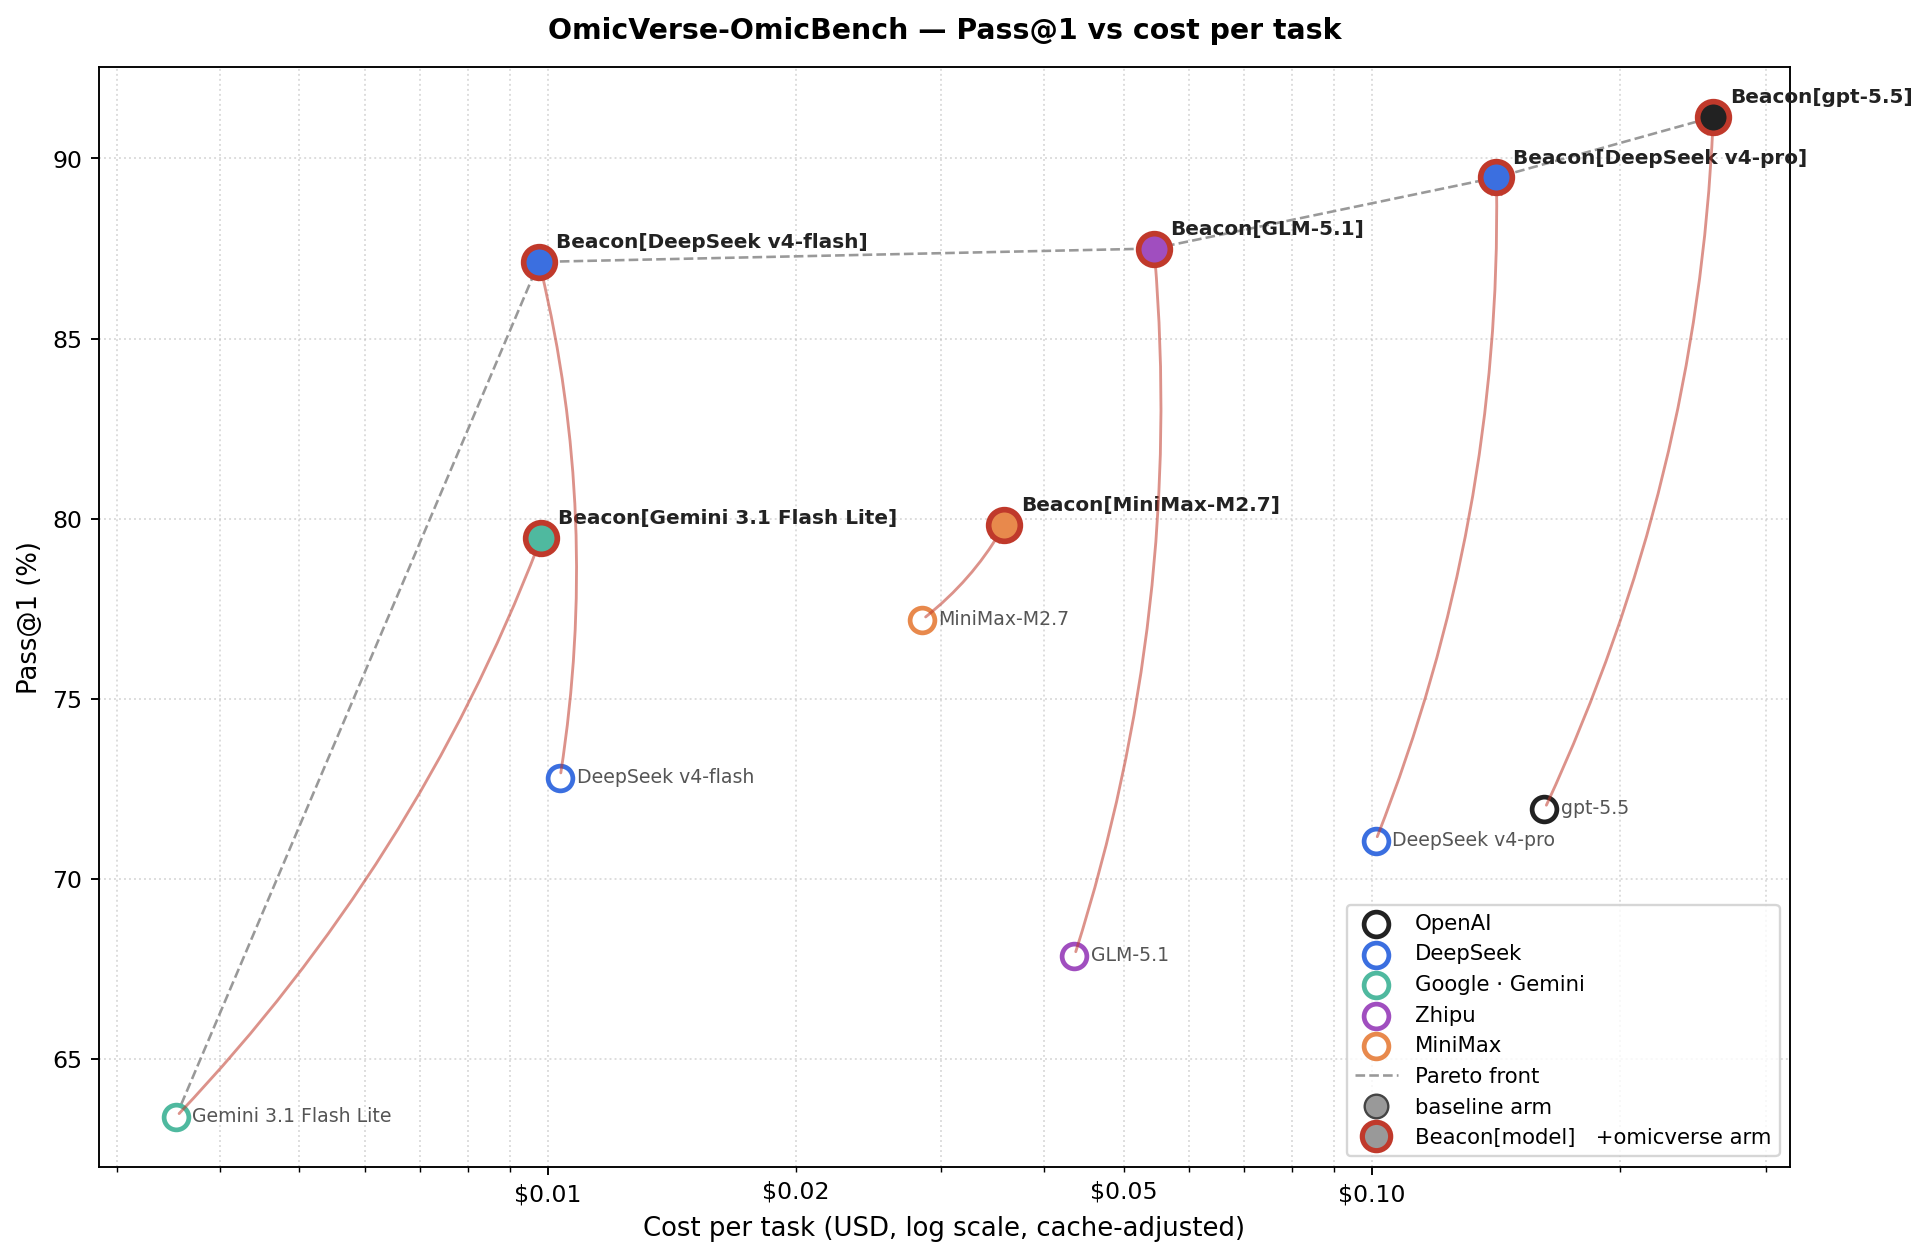
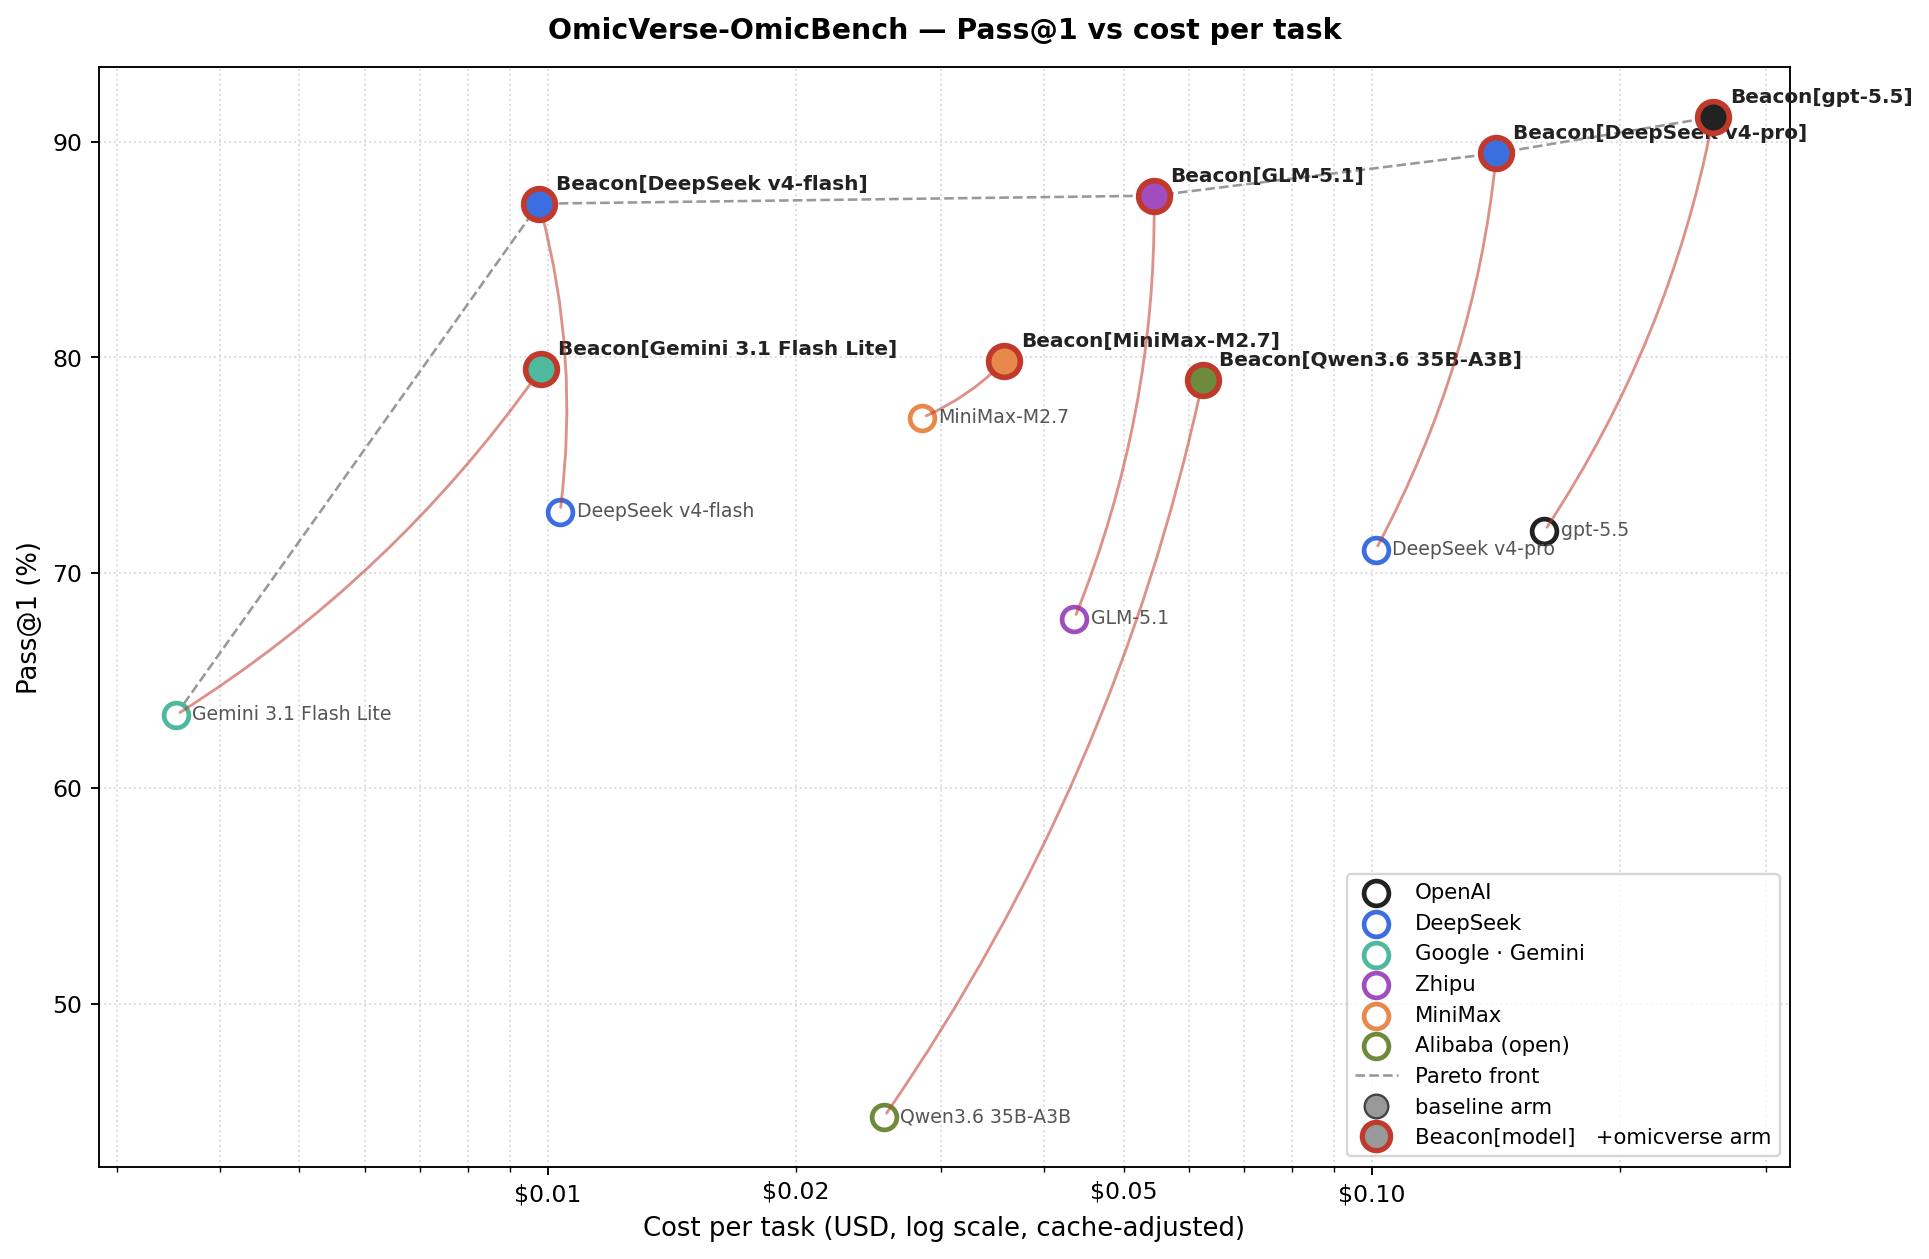
analysis: price qwen via OpenRouter so it lands on the cost chart
Qwen3.6 35B-A3B was run locally on ollama at $0, which excluded it
from the log-scale cost axis. Using OpenRouter list prices ($0.15
input / $1.00 output per M tokens, no documented cache discount) for
the comparison row, it now plots at $0.026/task baseline → $0.062/task
+Beacon (the same Pareto-front-anchoring cheap end as Gemini Flash
Lite, but with a much larger +34 pp uplift from a low baseline).

README now mentions this fact explicitly so readers don't confuse
chart cost with actual sweep cost.

diff --git a/analysis/bench_cost.py b/analysis/bench_cost.py
@@ -50,7 +50,14 @@ PRICING = {
     "gemini-3.1-flash-lite-preview": (0.10, 0.025,   0.40),
     "glm-5.1":                       (0.60, 0.06,    2.40),
     "MiniMax-M2.7":                  (0.30, 0.030,   1.20),
-    "qwen3.6:35b-a3b":               (0.0,  0.0,     0.0),  # local ollama
+    # Qwen3.6 35B-A3B priced from OpenRouter (Alibaba's open-weights model
+    # served by 3rd-party endpoints; the v1.0 sweep actually ran on local
+    # ollama at $0, so this row is an "if-on-OpenRouter" reference for
+    # apples-to-apples cost comparison with the API providers above.
+    # OpenRouter does not document a prompt-cache discount for this
+    # model — cached price equals input price, so the cache-adjusted
+    # number reduces to naive for qwen.
+    "qwen3.6:35b-a3b-256k":          (0.15, 0.15,    1.00),
 }
 
 # Map "model_short" in trajectory filenames -> model_id key in PRICING.

diff --git a/analysis/cost_chart.py b/analysis/cost_chart.py
@@ -40,7 +40,7 @@ PROVIDER = {
     "gemini-3.1-flash-lite-preview": ("Google · Gemini", "#4FB99F"),
     "glm-5.1":                       ("Zhipu",           "#A04EBF"),
     "MiniMax-M2.7":                  ("MiniMax",         "#E8894C"),
-    "qwen3.6:35b-a3b":               ("Alibaba (open)",  "#6E8B3D"),
+    "qwen3.6:35b-a3b-256k":          ("Alibaba (open)",  "#6E8B3D"),
 }
 BEACON_RING = "#C0392B"   # red — highlights the +omicverse arm
 
@@ -83,7 +83,7 @@ def short_label(model_id):
         "gemini-3.1-flash-lite-preview": "Gemini 3.1 Flash Lite",
         "glm-5.1":                       "GLM-5.1",
         "MiniMax-M2.7":                  "MiniMax-M2.7",
-        "qwen3.6:35b-a3b":               "Qwen3.6 35B-A3B",
+        "qwen3.6:35b-a3b-256k":          "Qwen3.6 35B-A3B",
     }.get(model_id, model_id)
 
 

diff --git a/README.md b/README.md
@@ -121,11 +121,15 @@ by **Gemini 3.1 Flash Lite** at the cheap end (~$0.004/task baseline,
 (~$0.26/task at 92% Pass@1). Two open-weights backends sit on the front
 mid-range: **Beacon[DeepSeek v4-flash]** at $0.010 / 86% and
 **Beacon[GLM-5.1]** at $0.054 / 89% — both deliver headline scores at a
-fraction of the gpt-5.5 cost.*
+fraction of the gpt-5.5 cost. **Beacon[Qwen3.6 35B-A3B]** lands at
+$0.062 / 79% Pass@1 with the largest single uplift on the chart
+(+34 pp from a 45% baseline).*
 
-> Qwen3.6:35b-A3B (local ollama) is excluded — its dollar cost is $0
-> by definition, which doesn't fit a log-scale axis. Its scores still
-> appear in the headline pass% table above.
+> Qwen3.6:35b-A3B was actually run locally on ollama at zero dollar
+> cost; the cost shown here uses OpenRouter list prices ($0.15/$1.00
+> per M in/out, no documented cache discount) so it can be compared
+> apples-to-apples with the API-backed models on the same axis. The
+> chart-only `qwen-3.6:27b` xmodel side-sweep is omitted (only 4 cells).
 
 ### Ablating Beacon
 